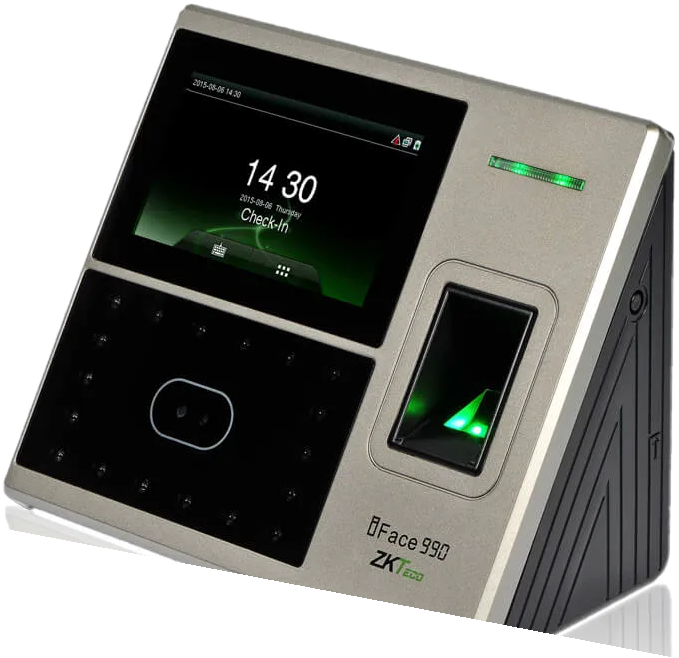
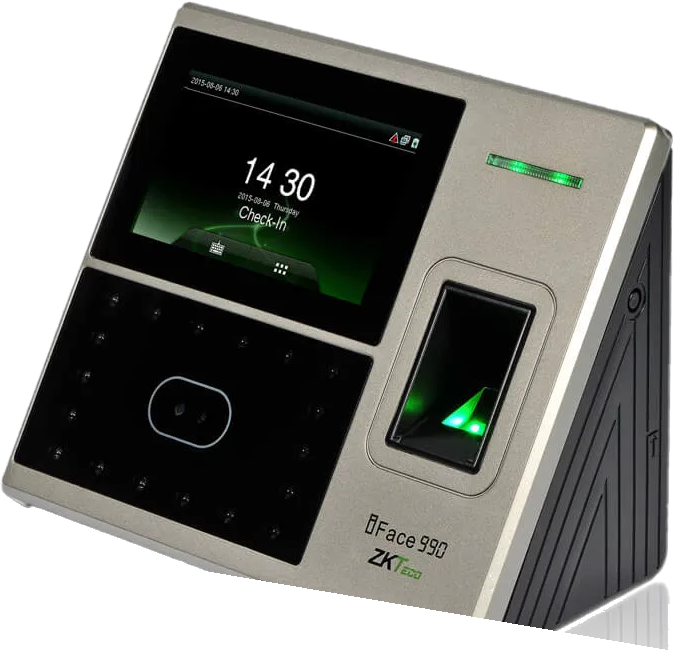
Step inside: smooth the dive; clean the product cut-outs
Client feedback, 26 Nov 2026: the zoom into the terminal glitched, and
stray white bits showed around the photos.

- The stage now glides towards the scroll position every frame, so
  stepped mouse-wheel input reads as one fluid move.
- The terminal's drop-shadow filter, re-rendered at every zoom step,
  is now a separate soft layer that fades as the terminal lifts.
- The terminal only grows until its screen fills the height (about
  2.5x, not 7x); the family showcase then opens outward from inside
  that screen with a clip-path, so the photo never blows up or blurs.
- Every cut-out loses its stray fragments; the iFace 990 Plus (time
  attendance) is recut below its base, without the studio reflection.
- Family order stays access control first, then time attendance.

Claude-Session: https://claude.ai/code/session_01M9jJzEnwE3TxGXZYTGHjL9

diff --git a/src/components/preview/StepInside.tsx b/src/components/preview/StepInside.tsx
@@ -15,8 +15,9 @@ import "./step-inside.css";
  */
 const SCREEN = { x: 0.152, y: 0.2, w: 0.688, h: 0.571 };
 // The dive takes about two thirds of a screen of scrolling (client feedback, 26 Nov 2026: it felt slow).
-const DIVE = [0.02, 0.17] as const;
-const SHOW = [0.22, 0.97] as const;
+const DIVE = [0.02, 0.15] as const;
+const OPEN = [0.15, 0.22] as const;
+const SHOW = [0.24, 0.97] as const;
 const ramp = (p: number, [a, b]: readonly [number, number]) => Math.min(1, Math.max(0, (p - a) / (b - a)));
 
 export function StepInside({ slides }: { slides: FamilySlide[] }) {
@@ -30,11 +31,15 @@ export function StepInside({ slides }: { slides: FamilySlide[] }) {
     const dev = device.current;
     if (!root || !dev) return;
     const reduced = matchMedia("(prefers-reduced-motion: reduce)");
-    let geo = { tx: 0, ty: 0, k: 1, ox: 0, oy: 0 };
+    let geo = { tx: 0, ty: 0, k: 1, ox: 0, oy: 0, inset: [0, 0, 0, 0] };
     let raf = 0;
     let last = -1;
+    let target = 0;
+    let shown = -1;
     const measure = () => {
-      // The terminal's resting box (its transform cleared), and the scale that makes its screen overfill the stage.
+      // The terminal's resting box (its transform cleared); the scale at which its screen fills the stage's height
+      // (no more: blowing the photo up to fill the width as well made the browser drop frames and blurred it); and
+      // where that enlarged screen then sits, which is where the showcase starts to open from.
       dev.style.transform = "none";
       const stage = root.querySelector<HTMLElement>(".si-stage");
       const s = stage?.getBoundingClientRect();
@@ -44,45 +49,68 @@ export function StepInside({ slides }: { slides: FamilySlide[] }) {
       const sh = r.height * SCREEN.h;
       const cx = r.left + r.width * (SCREEN.x + SCREEN.w / 2);
       const cy = r.top + r.height * (SCREEN.y + SCREEN.h / 2);
+      const k = (s.height * 0.94) / sh;
+      const fx = (s.width - sw * k) / 2;
+      const fy = (s.height - sh * k) / 2;
       geo = {
         tx: s.left + s.width / 2 - cx,
         ty: s.top + s.height / 2 - cy,
-        k: Math.max((s.height * 1.12) / sh, (s.width * 1.04) / sw),
+        k,
         ox: r.width * (SCREEN.x + SCREEN.w / 2),
         oy: r.height * (SCREEN.y + SCREEN.h / 2),
+        inset: [fy, fx, fy, fx],
       };
       dev.style.transformOrigin = `${geo.ox}px ${geo.oy}px`;
+      shown = -1;
     };
-    const update = () => {
-      raf = 0;
-      if (reduced.matches) return;
+    const progress = () => {
       const rect = root.getBoundingClientRect();
       const run = Math.max(1, rect.height - innerHeight);
-      const p = Math.min(1, Math.max(0, -rect.top / run));
+      return Math.min(1, Math.max(0, -rect.top / run));
+    };
+    const render = (p: number) => {
       const d = ramp(p, DIVE);
-      // The zoom runs in log space, so every step of scroll magnifies by the same factor: a steady rush towards
-      // the screen with no slow start, eased only at its two ends. The move to centre leads the zoom slightly.
+      // The zoom runs in log space, so each step magnifies by the same factor, eased only at its two ends; the move
+      // to centre leads it slightly.
       const e = d * d * (3 - 2 * d);
       const k = Math.exp(Math.log(geo.k) * e);
       const m = 1 - (1 - d) ** 3;
-      dev.style.transform = `translate(${geo.tx * m}px, ${geo.ty * m}px) scale(${k}) rotate(${-4 * (1 - m)}deg)`;
+      dev.style.transform = `translate3d(${geo.tx * m}px, ${geo.ty * m}px, 0) scale(${k}) rotate(${-4 * (1 - m)}deg)`;
+      // Then the showcase opens out of the screen: a clip from the enlarged screen's box to the whole stage.
+      const o = ramp(p, OPEN);
+      const g = 1 - (1 - o) ** 3;
+      const [t, rr, b, l] = geo.inset;
       root.style.setProperty("--dive", d.toFixed(4));
-      const inside = ramp(p, [0.14, 0.2]);
-      root.style.setProperty("--inside", inside.toFixed(4));
-      // Whichever layer is showing takes the clicks.
-      root.toggleAttribute("data-inside", inside > 0.5);
+      root.style.setProperty("--open", o.toFixed(4));
+      root.style.setProperty(
+        "--clip",
+        `inset(${(t * (1 - g)).toFixed(1)}px ${(rr * (1 - g)).toFixed(1)}px ${(b * (1 - g)).toFixed(1)}px ${(l * (1 - g)).toFixed(1)}px round ${(14 * (1 - g)).toFixed(1)}px)`,
+      );
+      // The showcase exists only once it starts to open; whichever layer is showing takes the clicks.
+      root.toggleAttribute("data-opening", o > 0);
+      root.toggleAttribute("data-inside", o > 0.5);
       const i = Math.min(slides.length - 1, Math.floor(ramp(p, SHOW) * slides.length));
       if (i !== last) {
         last = i;
         setIndex(i);
       }
     };
+    // The stage glides towards the scroll position each frame, so stepped wheel input still reads as one fluid move.
+    const tick = () => {
+      raf = 0;
+      if (reduced.matches) return;
+      const next = shown < 0 ? target : shown + (target - shown) * 0.2;
+      shown = Math.abs(target - next) < 0.0004 ? target : next;
+      render(shown);
+      if (shown !== target) raf = requestAnimationFrame(tick);
+    };
     const onScroll = () => {
-      if (!raf) raf = requestAnimationFrame(update);
+      target = progress();
+      if (!raf) raf = requestAnimationFrame(tick);
     };
     const onResize = () => {
       measure();
-      update();
+      onScroll();
     };
     const apply = () => {
       setStill(reduced.matches);
@@ -127,7 +155,7 @@ export function StepInside({ slides }: { slides: FamilySlide[] }) {
               <rect x="50" y="292" width="24" height="30" rx="6" fill="#c9d1cd" />
             </svg>
             <div className="si-card">
-              <Image src="/images/cutouts/id-card-thick.png" alt="" width={629} height={496} sizes="220px" />
+              <Image src="/images/cutouts/id-card-thick.png" alt="" width={629} height={403} sizes="220px" />
               <p>
                 AIMS<i>.</i>
                 <small>Access · all areas</small>

diff --git a/src/components/preview/step-inside.css b/src/components/preview/step-inside.css
@@ -1,11 +1,12 @@
-/* Option 2, step inside the terminal (exploration). --dive (0 → 1) flies the terminal at the viewer; --inside
+/* Option 2, step inside the terminal (exploration). --dive (0 → 1) flies the terminal at the viewer; --open
    (0 → 1) swaps its screen for the family showcase. Both are written by StepInside on scroll. */
 .si {
   --dive: 0;
-  --inside: 0;
+  --open: 0;
+  --clip: inset(50%);
   --ease: cubic-bezier(0.2, 0.7, 0.2, 1);
   position: relative;
-  height: 470svh;
+  height: 460svh;
   background: #0b1d14;
   color: #fff;
 }
@@ -208,9 +209,18 @@
   aspect-ratio: 362 / 776;
   translate: -50% 0;
   rotate: -4deg;
-  opacity: calc(1 - var(--inside));
-  filter: drop-shadow(0 50px 60px rgb(0 0 0 / 0.55));
   will-change: transform;
+}
+/* The terminal's shadow is its own soft layer, not a filter on the terminal: a filter re-rendered at every step of
+   the zoom made the browser drop frames. It fades as the terminal lifts away. */
+.si-device::before {
+  content: "";
+  position: absolute;
+  inset: auto 6% -4% 6%;
+  height: 10%;
+  border-radius: 50%;
+  background: radial-gradient(closest-side, rgb(0 0 0 / 0.55), transparent);
+  opacity: calc(1 - var(--dive) * 3);
 }
 .si-device img {
   display: block;
@@ -262,11 +272,17 @@
   position: absolute;
   inset: 0;
   z-index: 1;
-  opacity: var(--inside);
+  clip-path: var(--clip);
+  visibility: hidden;
   pointer-events: none;
 }
-.si[data-inside] .si-inside {
+.si[data-opening] .si-inside {
+  visibility: visible;
+}
+.si-inside {
   z-index: 3;
+}
+.si[data-inside] .si-inside {
   pointer-events: auto;
 }
 .si-glass {
@@ -278,7 +294,7 @@
   gap: 1.5rem 3rem;
   padding: 3rem 3.5rem 2.5rem;
   background: radial-gradient(80% 90% at 70% 40%, #1f5c3a, #0b1d14);
-  scale: calc(1.06 - var(--inside) * 0.06);
+  scale: calc(1.04 - var(--open) * 0.04);
 }
 .si-step {
   grid-column: 1;
@@ -469,7 +485,8 @@
 }
 .si[data-still] .si-inside {
   position: relative;
-  opacity: 1;
+  clip-path: none;
+  visibility: visible;
   height: calc(100svh - 4.5rem);
   pointer-events: auto;
 }

diff --git a/src/components/preview/familyShowcase.ts b/src/components/preview/familyShowcase.ts
@@ -27,7 +27,7 @@ const c = (file: string, w: number, h: number, alt: string): Cutout => ({
   alt,
 });
 
-const CARD = c("id-card-thick", 629, 496, "");
+const CARD = c("id-card-thick", 629, 403, "");
 const READER = c("kr600", 376, 575, "");
 const EXIT = c("alf-b21-exit-button", 513, 509, "");
 const MAG = c("al-280d-led-electric-magnetic-door-lock-model", 730, 442, "");
@@ -72,7 +72,7 @@ export const FAMILY_SHOW: FamilyShow[] = [
     line: "Face, palm, fingerprint and card terminals that clock staff in, synced to BioTime.",
     ground: "#26703a",
     hero: {
-      ...c("zkteco-iface-990-plus", 679, 658, "ZKTeco iFace 990 Plus attendance terminal"),
+      ...c("zkteco-iface-990-plus", 675, 650, "ZKTeco iFace 990 Plus attendance terminal"),
       model: "iFace 990 Plus",
       productSlug: "zkteco-iface-990-plus",
       x: 500,
